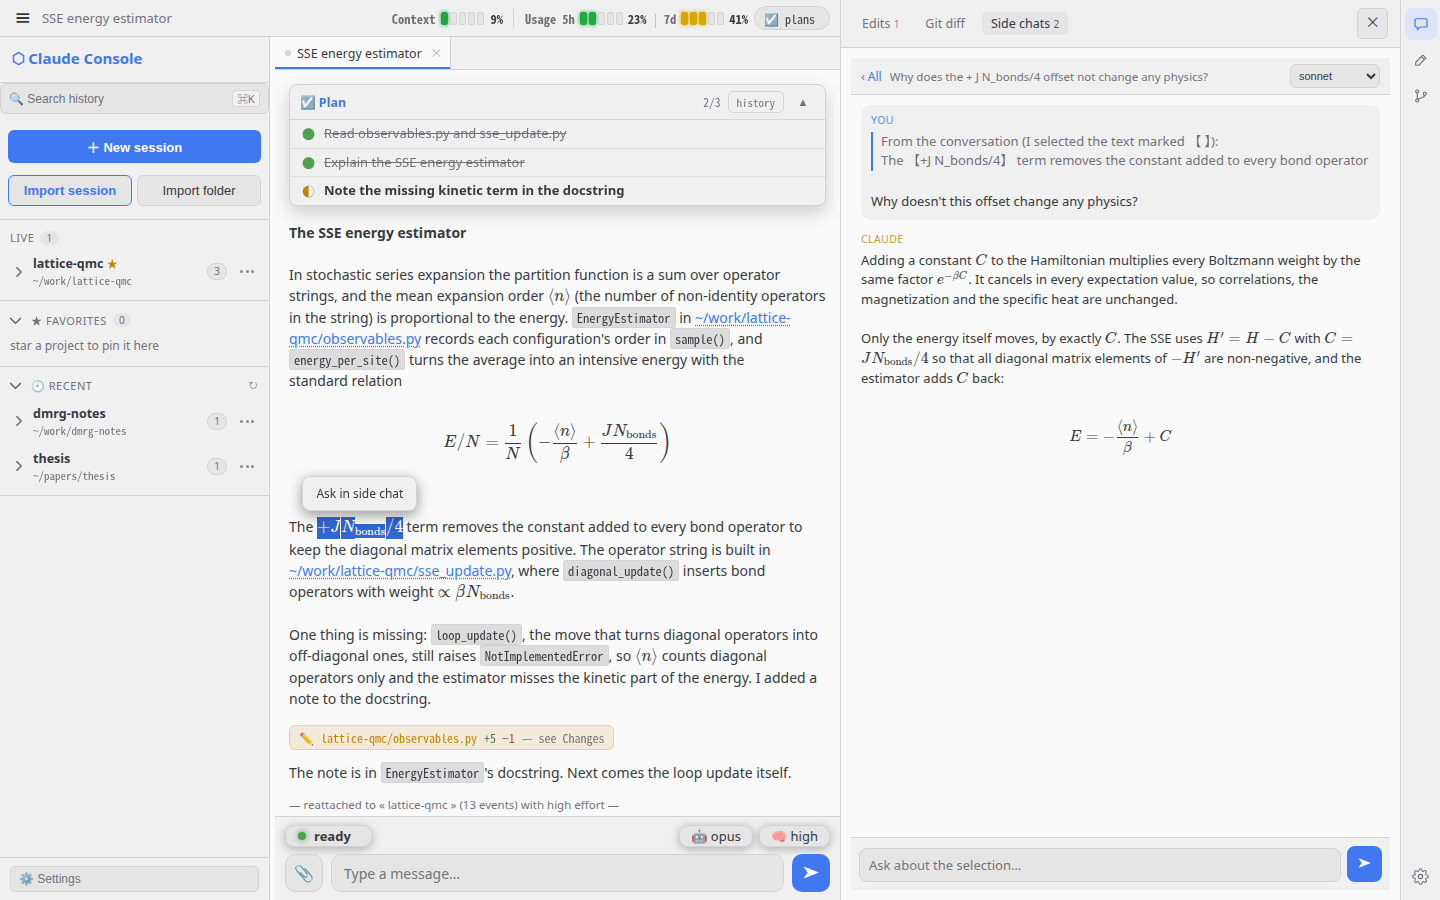
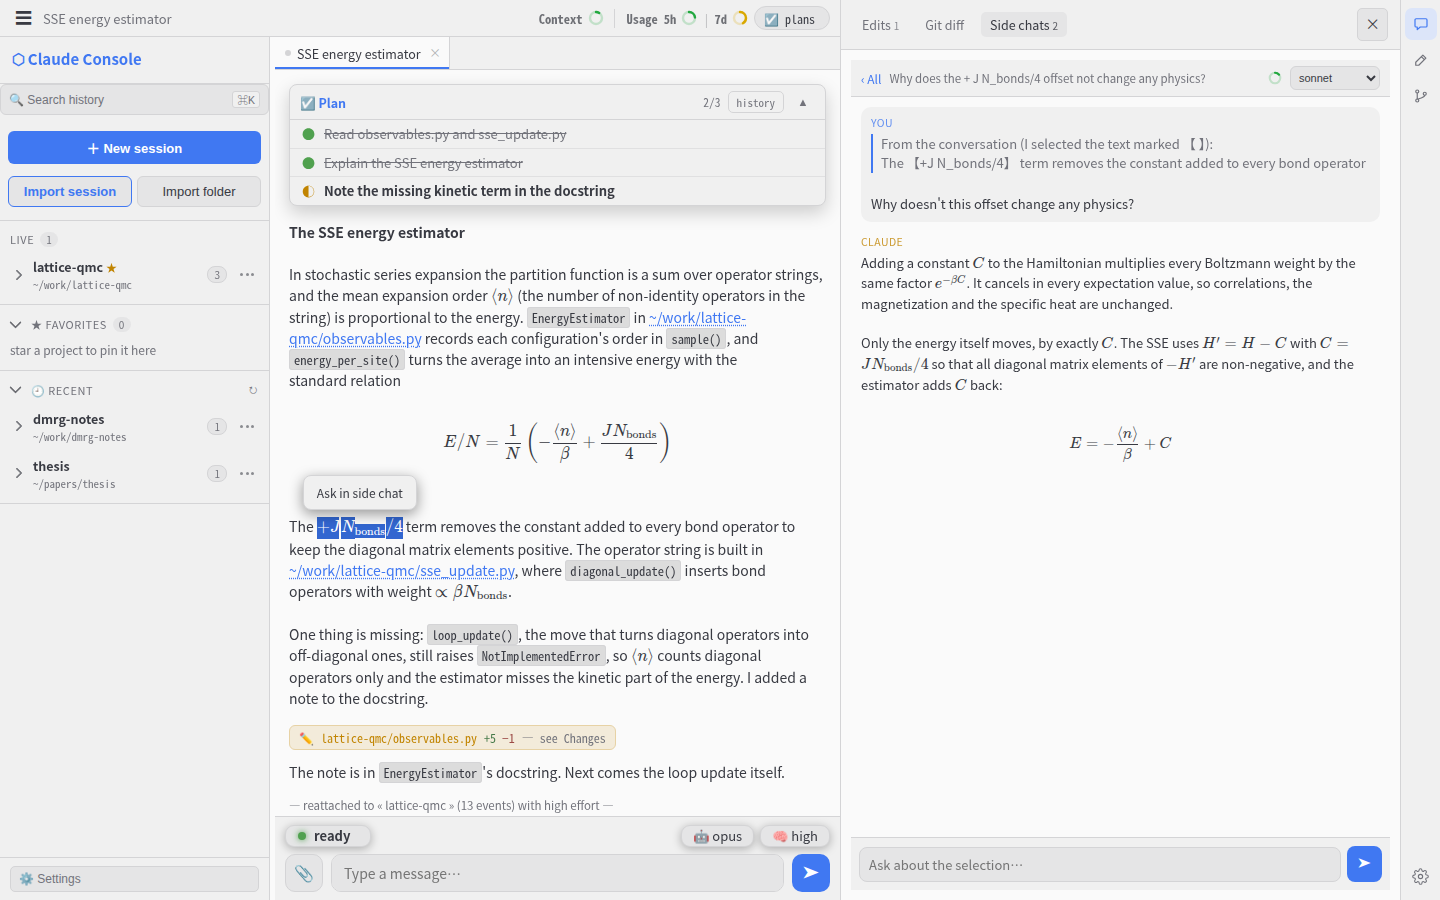
Show Context and Usage as rings, together in the phone toolbar
The meters were five cells and a percentage each, which on a phone filled two
bars: Usage in the toolbar, Context in the header below it. Now each one is a
ring: the arc is the share used and takes the level colour (green below 40%,
yellow, orange from 60, red above 80), the track the same hue faint. The
figures move into a small box that opens on hover with a mouse and on a tap
on a touch screen (a second tap, a tap elsewhere, scrolling or resizing closes
it): tokens and model for Context, the share used and the reset time for each
usage window.

- Header: "Context" and "Usage 5h | 7d" (plus any per-model weekly quota) as
  rings.
- Below 600 px the toolbar carries Context and Usage together (ctx 5h 7d) and
  the header no longer repeats them, so the toolbar is the one bar for both.
  Between 600 and 680 px the header now shows Usage too.
- A side chat's header shows its context as the same ring.
- The cell meter (cellBar, .cells) is gone.

README text and screenshots follow (from tests/readme_shots.py, demo data).

diff --git a/claude_console.py b/claude_console.py
@@ -6007,6 +6007,8 @@ html.in-desktop-app{--railw:0px}
 #mtools .mt-usage{flex:1;min-width:0;overflow:hidden;display:flex;align-items:center;gap:9px;white-space:nowrap;
   font-size:11px;font-weight:600;font-family:var(--fmono);color:var(--fg)}
 #mtools .mtseg{display:inline-flex;align-items:center;gap:4px}
+#mtools .ring{width:15px;height:15px}
+#mtools .mtuse{display:inline-flex;align-items:center;gap:9px}
 #mtools .mtseg .ulabel{opacity:.7}
 #mtools .mtb{position:relative;width:29px;height:28px;border:0;border-radius:6px;background:transparent;color:var(--mut);
   display:grid;place-items:center;padding:0;cursor:pointer;flex-shrink:0}
@@ -6063,10 +6065,10 @@ html.in-desktop-app #prail{display:none!important}
 #sideBar{display:flex;gap:8px;align-items:center;padding:6px 10px;border-bottom:1px solid var(--line);background:var(--bg2);flex-shrink:0}
 #sideBar .sback{color:var(--acc);cursor:pointer;font-size:12px;white-space:nowrap}
 #sideBar .stitle{flex:1;min-width:0;color:var(--mut);font-size:11.5px;overflow:hidden;text-overflow:ellipsis;white-space:nowrap}
-/* the side chat's own context-window use: the main meter's cells, smaller */
+/* the side chat's own context-window use: a ring, a little smaller than the header's */
 #sideBar .suse{display:inline-flex;align-items:center;gap:4px;flex-shrink:0;font-size:11px;font-weight:600;color:var(--mut);font-family:var(--fmono);white-space:nowrap}
 #sideBar .suse[hidden]{display:none}
-#sideBar .suse .cell{width:5px;height:10px}
+#sideBar .suse .ring{width:14px;height:14px}
 #sideCtx{flex-shrink:0;margin:8px 10px 0;padding:6px 9px;border-left:3px solid var(--acc);background:var(--bg2);border-radius:0 6px 6px 0;
   font-size:12px;color:var(--mut);max-height:84px;overflow:auto;white-space:pre-wrap}
 #sideStream{flex:1;min-height:0;overflow:auto;padding:10px}
@@ -6167,9 +6169,6 @@ html.in-desktop-app #prail{display:none!important}
 .ctx .ulabel,.usage .ulabel{opacity:.7}
 .usage .useg{display:inline-flex;align-items:center;gap:5px}
 .usage .useg + .useg::before{content:"|";opacity:.3;font-weight:400}   /* divider between 5h | 7d */
-/* shared segmented meter: 5 cells × 20%, whole bar coloured by the total % (Context + Usage) */
-.cells{display:inline-flex;gap:2px;align-items:center}
-.cells .cell{width:7px;height:13px;border-radius:2px;background:var(--bg3);border:1px solid var(--line);box-sizing:border-box;transition:background .25s,box-shadow .25s}
 /* Meter signal ramp — FIXED hues, deliberately not the semantic tokens.
    green/amber/orange/red mean the same thing in every theme, and the semantic
    tokens are tuned for text: pushing them to a text contrast ratio turns the
@@ -6179,10 +6178,20 @@ html.in-desktop-app #prail{display:none!important}
 :root[data-theme="light"],:root[data-theme="solarized-light"],:root[data-theme="catppuccin-latte"],
 :root[data-theme="gruvbox-light"],:root[data-theme="rose-pine-dawn"],:root[data-theme="one-light"],
 :root[data-theme="ayu-light"]{--mg:#22a83f;--my:#d9a800;--mo:#f57c00;--mr:#ef3f31}
-.cells.lv-g{color:var(--mg)}.cells.lv-y{color:var(--my)}
-.cells.lv-o{color:var(--mo)}.cells.lv-r{color:var(--mr)}
-.cells .cell.on{background:currentColor;border-color:currentColor;box-shadow:0 0 4px currentColor}
-@media(max-width:680px){.usage{display:none!important}}
+/* Ring meters (Context, Usage, a side chat's context): the arc is the share used and
+   takes the level colour, the track the same hue faint. The figures show in #ringTip. */
+.ring{width:16px;height:16px;flex-shrink:0;display:block}
+.ring circle{fill:none;stroke:currentColor;stroke-width:3}
+.ring .rtrack{opacity:.22}
+.ring .rarc{stroke-linecap:round;transition:stroke-dasharray .3s}
+.ring.lv-g{color:var(--mg)}.ring.lv-y{color:var(--my)}.ring.lv-o{color:var(--mo)}.ring.lv-r{color:var(--mr)}
+.rmeter{cursor:default}
+#ringTip{position:fixed;z-index:1000;max-width:min(340px,calc(100vw - 12px));padding:6px 9px;border-radius:7px;
+  background:var(--bg2);color:var(--fg);border:1px solid var(--line);box-shadow:0 6px 20px rgba(0,0,0,.28);
+  font-size:12px;line-height:1.5;white-space:pre-line;font-family:var(--fmono);pointer-events:none}
+#ringTip[hidden]{display:none}
+/* narrow screens: the toolbar above the header carries Context and Usage together */
+@media(max-width:599px){header .ctx,header .usage{display:none!important}}
 /* the way back down after reading up: over the chat's bottom-right corner, shown while
    the view is off the tail, hidden once it follows again or there is nothing to scroll */
 .jump{position:absolute;right:22px;top:-46px;width:34px;height:34px;border-radius:50%;z-index:6;
@@ -7903,36 +7912,65 @@ function fmtTok(n){if(n==null)return '?';
   if(n>=1e6)return (n/1e6).toFixed(1).replace(/\.0$/,'')+'M';
   if(n>=1000)return (n/1000).toFixed(n>=1e4?0:1)+'k';
   return ''+n;}
-/* shared segmented meter: 5 cells (20% each), whole bar coloured by the total % */
-function meterLvl(p){return p>80?'r':p>=60?'o':p>=40?'y':'g';}
-function cellBar(pct){const p=Math.max(0,Math.min(100,pct)),lit=Math.min(5,Math.ceil(p/20));
-  let s='<span class="cells lv-'+meterLvl(p)+'">';
-  for(let i=1;i<=5;i++)s+='<span class="cell'+(i<=lit?' on':'')+'"></span>';
-  return s+'</span>';}
 /* Past SNAPSHOT_AT the empty composer says "update your snapshot" instead of
    inviting a message: compaction is on its way, and a snapshot written now is
    what carries the session across it. The meter alone is easy to stop seeing;
    the box you are about to type into is not. */
 const TA_HINT='Type a message…', SNAPSHOT_AT=60;
+/* meter level by the share used: green below 40%, yellow from 40, orange from 60, red above 80 */
+function meterLvl(p){return p>80?'r':p>=60?'o':p>=40?'y':'g';}
+/* A ring: the arc is the share used (pathLength 100, so the dash is the percentage),
+   coloured by meterLvl, starting at the top. */
+function ringSvg(pct){const p=Math.max(0,Math.min(100,pct));
+  return '<svg class="ring lv-'+meterLvl(p)+'" viewBox="0 0 20 20" aria-hidden="true">'+
+    '<circle class="rtrack" cx="10" cy="10" r="7.5"/>'+
+    (p>0?'<circle class="rarc" cx="10" cy="10" r="7.5" pathLength="100" stroke-dasharray="'+p.toFixed(1)+' 100" transform="rotate(-90 10 10)"/>':'')+'</svg>';}
+/* the figures behind a context ring */
+function ctxTip(c,pct,what){const n=v=>v==null?'?':Number(v).toLocaleString('en-US');
+  return (what||'Context')+' '+pct+'% used\n'+n(c.totalTokens)+' / '+n(c.maxTokens)+' tokens'+(c.model?'\n'+c.model:'');}
+/* puts a meter's figures on it, for #ringTip and screen readers */
+function setTip(el,t){el.dataset.tip=t||'';el.setAttribute('aria-label',(t||'').replace(/\n/g,' · '));el.removeAttribute('title');
+  if(tipFor===el&&!ringTip.hidden)tipShow(el);}
 function renderCtx(c){const el=$('#ctx');curCtx=c||null;
   const pct=(c&&c.percentage!=null)?Math.round(c.percentage):null;
   ta.placeholder=(pct!=null&&pct>=SNAPSHOT_AT)?'update your snapshot':TA_HINT;
+  mtRender();
   if(pct==null){el.style.display='none';return;}
-  el.className='ctx';el.style.display='inline-flex';
-  el.innerHTML='<span class="ulabel">Context</span>'+cellBar(pct)+'<span>'+pct+'%</span>';
-  el.title='context '+(c.totalTokens||'?')+' / '+(c.maxTokens||'?')+' tokens ('+pct+'%)'+(c.model?' · '+c.model:'');
+  el.className='ctx rmeter';el.style.display='inline-flex';
+  el.innerHTML='<span class="ulabel">Context</span>'+ringSvg(pct);
+  setTip(el,ctxTip(c,pct));
   setResolvedModel(c.model, c.maxTokens);}
+/* Ring details: the figures in a small box below the ring, on hover with a mouse, on a
+   tap on a touch screen (a second tap, a tap elsewhere, scrolling or resizing closes it). */
+/* var, not let: renderCtx can run before these lines while the page starts */
+var ringTip=document.createElement('div');ringTip.id='ringTip';ringTip.setAttribute('role','tooltip');ringTip.hidden=true;
+var tipFor=null,tipPinned=false;
+function tipShow(m){const t=m.dataset.tip;if(!t){tipHide();return;}
+  if(!ringTip.isConnected)document.body.append(ringTip);
+  ringTip.textContent=t;ringTip.hidden=false;tipFor=m;
+  const r=m.getBoundingClientRect(),w=ringTip.offsetWidth;
+  ringTip.style.top=Math.round(r.bottom+6)+'px';
+  ringTip.style.left=Math.round(Math.max(6,Math.min(innerWidth-w-6,r.left+r.width/2-w/2)))+'px';}
+function tipHide(){ringTip.hidden=true;tipFor=null;tipPinned=false;}
+document.addEventListener('pointerover',e=>{if(e.pointerType!=='mouse'||tipPinned)return;
+  const m=e.target.closest&&e.target.closest('.rmeter');if(m){if(m!==tipFor)tipShow(m);}else if(tipFor)tipHide();});
+document.addEventListener('click',e=>{const m=e.target.closest&&e.target.closest('.rmeter');
+  if(!m){if(tipFor)tipHide();return;}
+  if(tipPinned&&tipFor===m){tipHide();return;}
+  tipShow(m);tipPinned=true;});
+addEventListener('resize',()=>{if(tipFor)tipHide();});
+document.addEventListener('scroll',()=>{if(tipFor)tipHide();},true);
 /* rolling 5-hour usage limit (Claude-Code-CLI style: Usage ░░░ 2% (4h 38m / 5h)) */
 function fmtDur(ms){if(ms==null||ms<=0)return '0m';const m=Math.floor(ms/60000),h=Math.floor(m/60);
   return h>0?(h+'h '+(m%60)+'m'):(m+'m');}
 function renderUsage(u){const el=$('#usage');const f=u&&u.five_hour,w=u&&u.seven_day;
   /* per-model weekly windows (e.g. Fable); label comes from the server */
   const sc=(u&&u.model_scoped)||[];
-  if((!f||f.utilization==null)&&(!w||w.utilization==null)&&!sc.length){el.style.display='none';mtRenderUsage(null);return;}
+  curUsage=u||null;
+  if((!f||f.utilization==null)&&(!w||w.utilization==null)&&!sc.length){el.style.display='none';curUsage=null;mtRender();return;}
   function seg(o,lbl){if(!o||o.utilization==null)return '';
-    const pct=Math.round(o.utilization);
-    return '<span class="useg"><span class="ulabel">'+lbl+'</span>'+cellBar(pct)+'<span>'+pct+'%</span></span>';}
-  el.className='usage';el.style.display='inline-flex';
+    return '<span class="useg"><span class="ulabel">'+esc(lbl)+'</span>'+ringSvg(Math.round(o.utilization))+'</span>';}
+  el.className='usage rmeter';el.style.display='inline-flex';
   el.innerHTML='<span class="ulabel">Usage</span>'+seg(f,'5h')+seg(w,'7d')+sc.map(o=>seg(o,o.label)).join('');
   let t='';
   function row(lbl,o){if(!o||o.utilization==null)return;
@@ -7941,14 +7979,19 @@ function renderUsage(u){const el=$('#usage');const f=u&&u.five_hour,w=u&&u.seven
   const all=[['five_hour','5-hour'],['seven_day','7-day'],['seven_day_sonnet','7-day Sonnet'],['seven_day_opus','7-day Opus']];
   all.forEach(([k,lbl])=>row(lbl,u&&u[k]));
   sc.forEach(o=>row('7-day '+o.label,o));
-  el.title=t;mtRenderUsage(u);}
-/* the same allowance, compact, in the narrow-screen toolbar */
-function mtRenderUsage(u){const el=$('#mtUsage');if(!el)return;
-  const f=u&&u.five_hour,w=u&&u.seven_day,sc=(u&&u.model_scoped)||[];
-  const seg=(o,l)=>(o&&o.utilization!=null)?'<span class="mtseg"><span class="ulabel">'+esc(l)+'</span>'+
-    cellBar(Math.round(o.utilization))+'<span>'+Math.round(o.utilization)+'%</span></span>':'';
-  el.innerHTML=seg(f,'5h')+seg(w,'7d')+sc.map(o=>seg(o,o.label)).join('');
-  el.title=$('#usage').title||'';}
+  usageTip=t;setTip(el,t);mtRender();}
+/* The narrow-screen toolbar: Context and the allowance together, as rings, each group
+   with its figures in #ringTip. */
+var curUsage=null,usageTip='';   /* var: renderCtx calls mtRender, maybe before this line ran */
+function mtRender(){const el=$('#mtUsage');if(!el)return;
+  const c=curCtx,pct=(c&&c.percentage!=null)?Math.round(c.percentage):null;
+  const u=curUsage,f=u&&u.five_hour,w=u&&u.seven_day,sc=(u&&u.model_scoped)||[];
+  const seg=(o,l)=>(o&&o.utilization!=null)?'<span class="mtseg"><span class="ulabel">'+esc(l)+'</span>'+ringSvg(Math.round(o.utilization))+'</span>':'';
+  const segs=seg(f,'5h')+seg(w,'7d')+sc.map(o=>seg(o,o.label)).join('');
+  el.innerHTML=(pct!=null?'<span class="mtseg rmeter" id="mtCtx"><span class="ulabel">ctx</span>'+ringSvg(pct)+'</span>':'')+
+    (segs?'<span class="mtuse rmeter" id="mtUse">'+segs+'</span>':'');
+  if(pct!=null)setTip($('#mtCtx'),ctxTip(c,pct));
+  if(segs)setTip($('#mtUse'),usageTip);}
 /* The allowance shown belongs to whichever login is running the attached
    session, not to the console. Getting this wrong quotes the wrong budget. */
 function loadUsage(){fetch('api/usage?account='+encodeURIComponent(curAccount))
@@ -9361,11 +9404,11 @@ function sideShowList(){$('#sidec').classList.remove('on-chat');$('#sideList').s
 function sideShowChat(){$('#sidec').classList.add('on-chat');$('#sideList').style.display='none';$('#sideChat').hidden=false;}
 function sideClearStream(){sideStream().innerHTML='';sideRenderCtx(null);}
 /* The side chat's context-window use, from its session's own "context" messages and
-   the ctx in "attached": cells and a percentage beside the model, tokens in the tooltip. */
+   the ctx in "attached": a ring beside the model, the figures on hover or tap. */
 function sideRenderCtx(c){const el=$('#sideUse');const pct=(c&&c.percentage!=null)?Math.round(c.percentage):null;
-  if(pct==null){el.hidden=true;el.innerHTML='';return;}
-  el.hidden=false;el.innerHTML=cellBar(pct)+'<span>'+pct+'%</span>';
-  el.title='side chat context '+(c.totalTokens||'?')+' / '+(c.maxTokens||'?')+' tokens ('+pct+'%)'+(c.model?' · '+c.model:'');}
+  if(pct==null){el.hidden=true;el.innerHTML='';if(tipFor===el)tipHide();return;}
+  el.hidden=false;el.classList.add('rmeter');el.innerHTML=ringSvg(pct);
+  setTip(el,ctxTip(c,pct,'Side chat context'));}
 function askInSide(selection,context){openDrawer('side');sideOpenNew(selection,context);}
 function sideOpenNew(selection,context){
   sideWsDrop();sideParent=curCC||null;

diff --git a/README.zh-CN.md b/README.zh-CN.md
@@ -24,7 +24,7 @@
   web file manager 中打开。辅助对话（side chats）：在消息里选中文字，点 <b>Ask in side chat</b>
   （选中的公式上方的弹出框），关于它的另一个对话就在右侧、主对话旁边打开，用它自己的模型。
   左下：agent 反过来问<em>你</em>问题，plan 折叠到当前一步，下一条消息里附着一个文件。右下：
-  手机上，用量、抽屉的各个标签页、搜索和设置都在顶栏上方的工具栏里。均为 One Light 主题，
+  手机上，上下文和用量圆环、抽屉的各个标签页、搜索和设置都在顶栏上方的工具栏里。均为 One Light 主题，
   来自一个脚本生成的演示 session。</sub>
 </p>
 
@@ -144,7 +144,7 @@
   另一个对话在抽屉里打开，就在主对话旁边。它从这段引文和它所在的那条消息开始，用自己的模型
   （默认 Sonnet，可以另选），不进入主 session 的上下文，也不出现在 session 列表里。每个 session
   有自己的辅助对话。**+ New side chat** 新开一个不带引文的辅助对话，它了解这个项目，但不知道
-  主对话说了什么。辅助对话的标题栏显示它自己的上下文窗口用了多少，与主对话的 Context 计量相同。
+  主对话说了什么。辅助对话的标题栏用一个圆环显示它自己的上下文窗口用了多少，与主对话的 Context 相同。
 
 ### 其他
 
@@ -157,13 +157,14 @@
 - **对话宽度** —— ⚙ Settings → Appearance：宽屏上对话区最宽能到多少，可选 Narrow（820 px）、
   Medium（1000 px，默认）、Wide（1200 px）或整个窗口。字号会按同一比例放大它；窄窗口始终
   占满整个宽度。按设备保存。
-- **一眼可见的状态** —— 头部有上下文窗口、5 小时滚动用量和每周用量计量，账号若有按
-  模型细分的周额度（Max 上的 Fable）也一并显示，悬停可看各自的复位时间；全宽输入框上方有一个
+- **一眼可见的状态** —— 头部用圆环显示上下文窗口、5 小时滚动用量和每周用量，账号若有按
+  模型细分的周额度（Max 上的 Fable）也一并显示。圆环随占用比例填满，颜色从绿变黄、橙、红；
+  鼠标悬停（触屏上点按）显示具体数字（token 数和模型，或已用比例和复位时间）。全宽输入框上方有一个
   浮动状态药丸（ready / 工作计时 / 实时 token 计数）以及模型和思考深度药丸。上下文用到
   60% 以上时，空输入框会显示 *update your snapshot*。
 - **宽屏和窄屏** —— 窗口足够宽时（桌面、平板、展开的折叠屏），抽屉停靠在对话旁边而不是盖住
   它，右边缘的一列按钮打开 Side chats、Edits、Git diff 和 Settings。窄于 600 px 时，顶栏上方
-  有一条工具栏，放着用量计量、抽屉的各个标签页、搜索和设置。
+  有一条工具栏，放着上下文和用量圆环、抽屉的各个标签页、搜索和设置。
 - **About** —— ⚙ Settings → About 显示 console 的版本（服务器启动时所在的 commit）。在 Android
   和桌面 app 里还显示 app 自己的版本和 **Check for updates**；它们的更新由 console 提供
   （`api/android/*`、`api/desktop/*`），文件在 `~/.local/share/claude-console/`。

diff --git a/README.md b/README.md
@@ -26,8 +26,8 @@ things a raw terminal tangles together:
   and choose <b>Ask in side chat</b> (the popup over the selected formula); a separate conversation
   about it opens on the right, beside the chat, on its own model. Bottom left: the agent asking
   <em>you</em> a question, with the plan folded to its active step and a file attached to the next
-  message. Bottom right: a phone, with the usage, the drawer's tabs, search and Settings in a
-  toolbar above the header. All in the One Light theme, from a scripted demo session.</sub>
+  message. Bottom right: a phone, with the context and usage rings, the drawer's tabs, search
+  and Settings in a toolbar above the header. All in the One Light theme, from a scripted demo session.</sub>
 </p>
 
 It drives Claude Code through the **Claude Agent SDK** (which runs the real
@@ -188,7 +188,7 @@ which is the whole point.
   another), and stays out of the main session's context and out of the session list. Each
   session keeps its own side chats. **+ New side chat** starts one with no quote, which knows
   the project but not the conversation. Its header shows how much of its own context window
-  it has used, like the main chat's Context meter.
+  it has used, as a ring like the main chat's Context.
 
 ### Everything else
 
@@ -203,15 +203,17 @@ which is the whole point.
   screen, Narrow (820 px), Medium (1000 px, the default), Wide (1200 px) or the full window.
   Text size scales it with the rest; narrow windows always use their whole width. Kept per
   device.
-- **At-a-glance status** — context-window, rolling 5-hour and weekly usage meters
-  in the header, including any per-model weekly quota the account carries (Fable
-  on Max), each with its reset time on hover; a floating status pill (ready / working timer / live token counts) plus
+- **At-a-glance status** — rings in the header for the context window and the rolling
+  5-hour and weekly usage, including any per-model weekly quota the account carries (Fable
+  on Max). A ring fills as the share grows and turns from green to yellow, orange and red;
+  hovering it, or tapping it on a touch screen, shows the figures (tokens and model, or the
+  share used and the reset time). A floating status pill (ready / working timer / live token counts) plus
   the model and effort pills above a full-width composer. Past 60% of the window
   the empty composer reads *update your snapshot*.
 - **Wide and narrow screens** — when the window is wide enough (a desktop, a tablet, an
   unfolded foldable), the drawer docks beside the chat instead of covering it, and a rail on
   the right edge opens Side chats, Edits, Git diff and Settings. Below 600 px a toolbar above
-  the header carries the usage meters, the drawer's tabs, search and Settings.
+  the header carries the context and usage rings, the drawer's tabs, search and Settings.
 - **About** — ⚙ Settings → About shows the console's version (the commit the server started
   from). In the Android and desktop apps it also shows the app's own version with **Check for
   updates**; the console serves their updates (`api/android/*`, `api/desktop/*`) from
